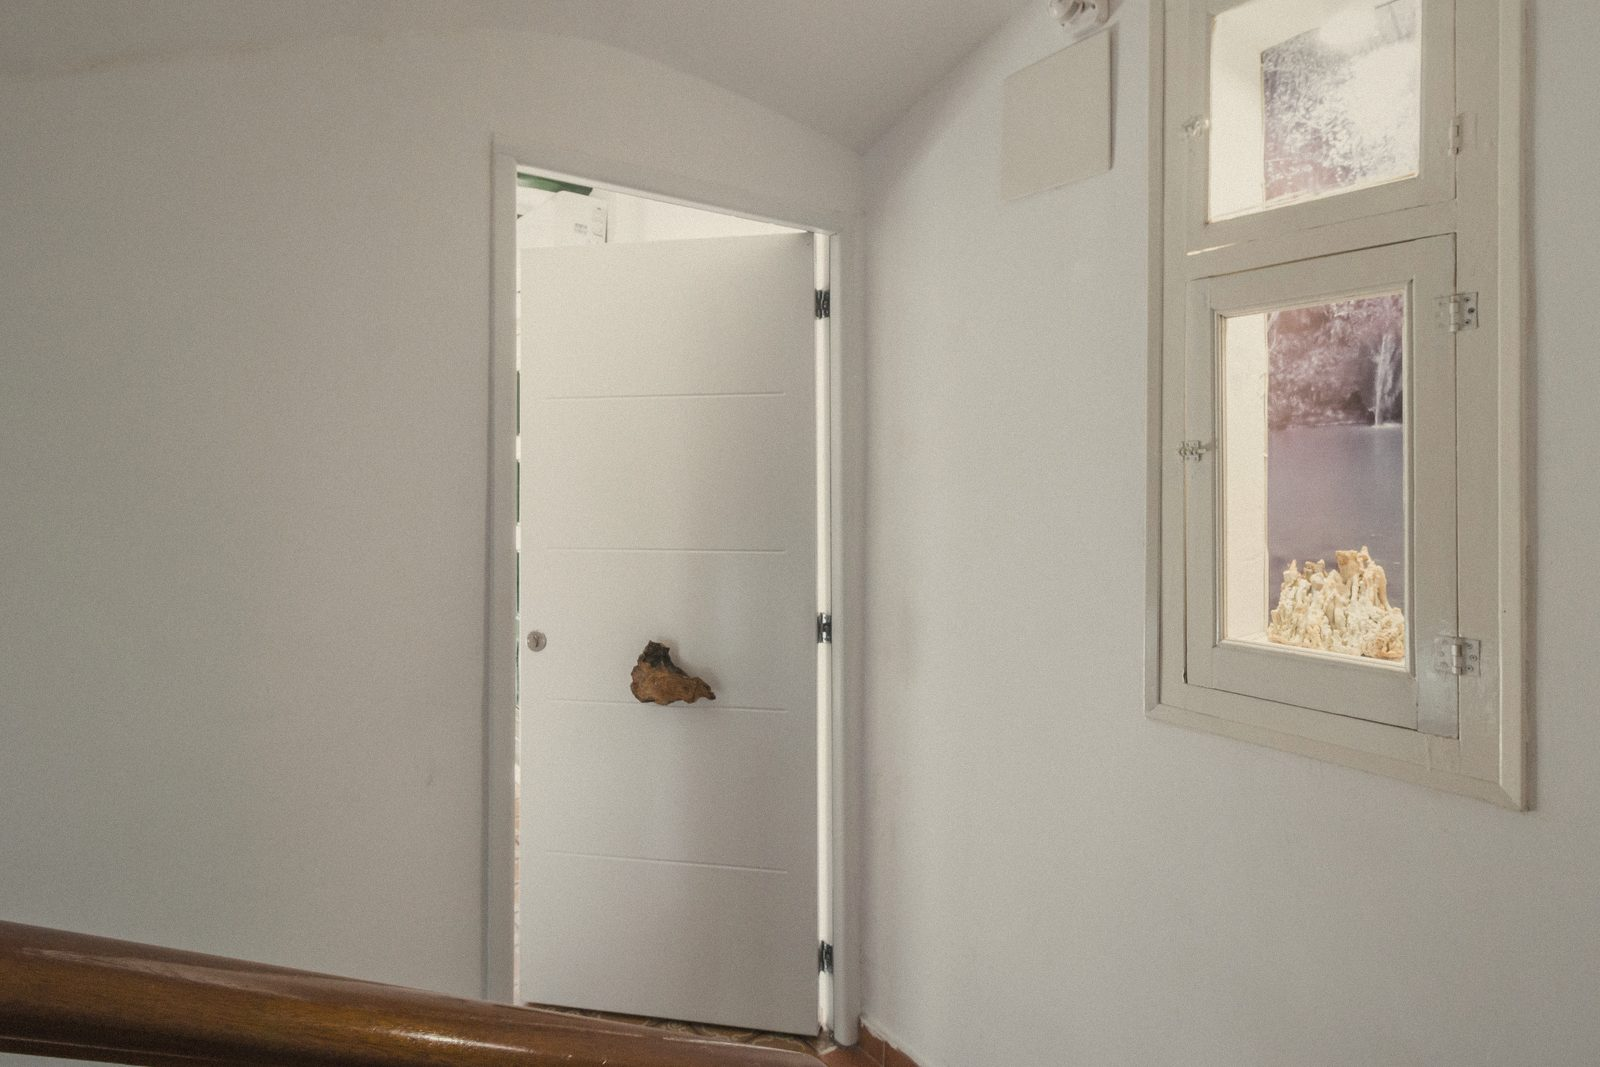
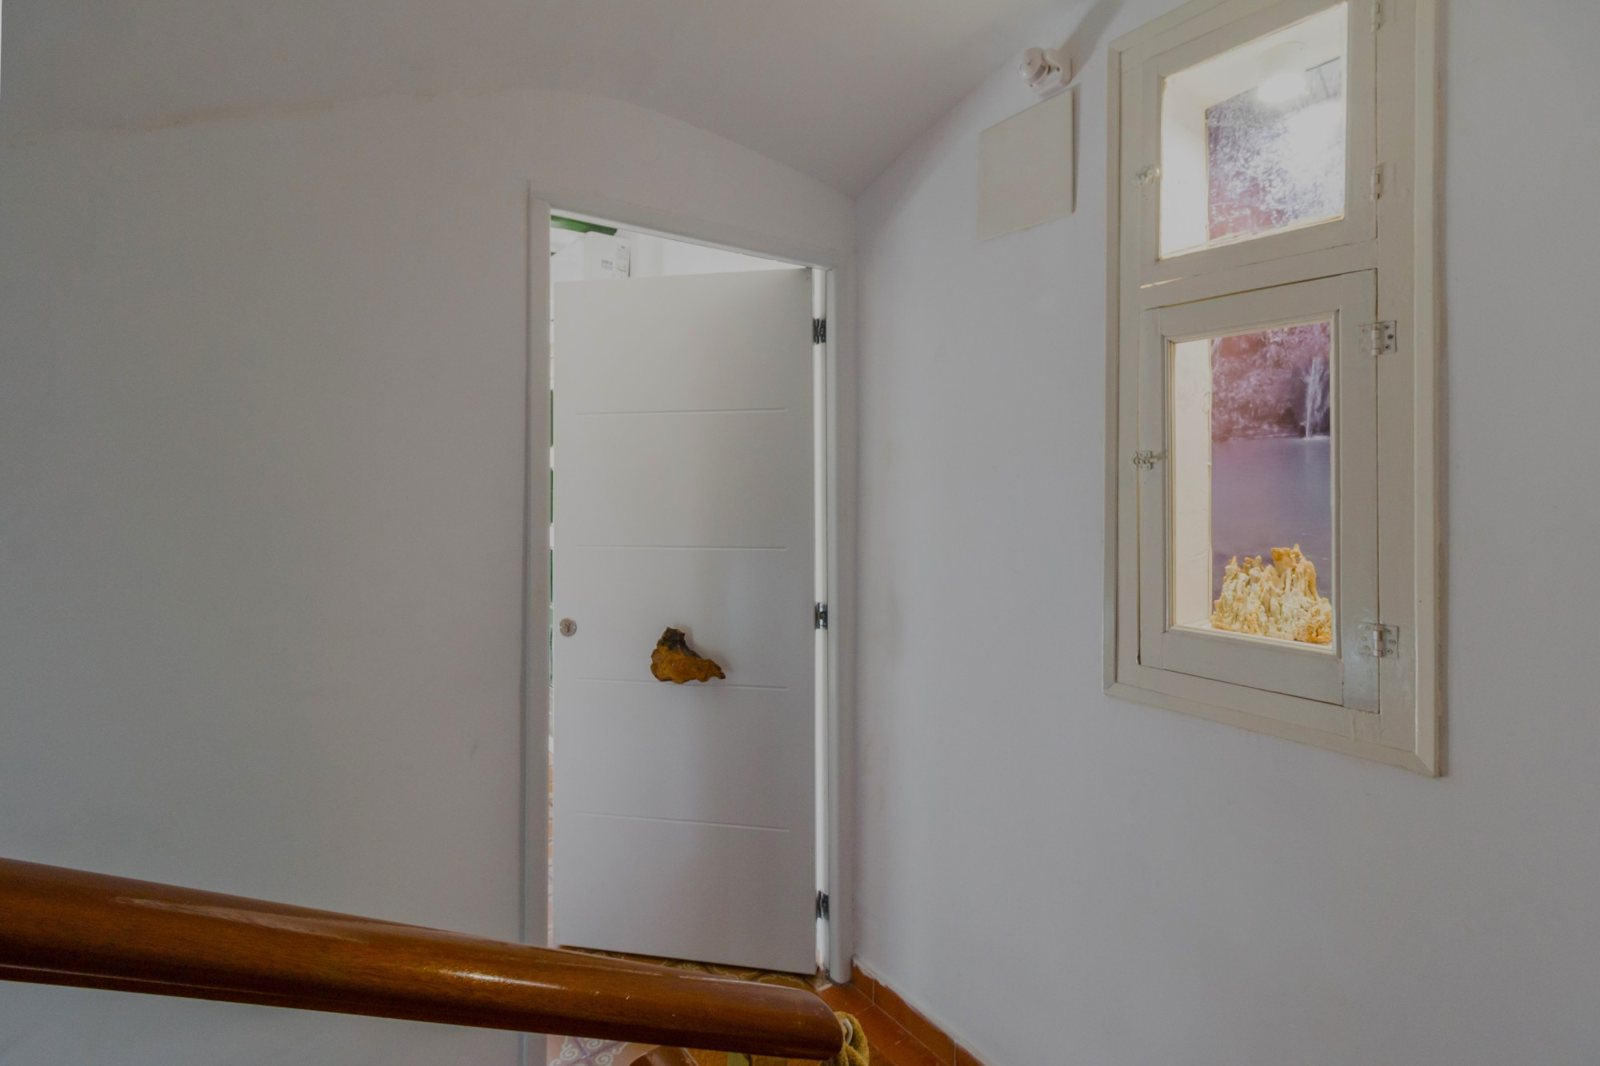
Add more owner-edited photos and fix lightbox start index
Claude-Session: https://claude.ai/code/session_018oXTw1pRYaYtSRcFJqPyaA

diff --git a/hotel-website/index.html b/hotel-website/index.html
@@ -396,14 +396,14 @@ footer .wrap > div { display: flex; gap: 22px; flex-wrap: wrap; }
   <div class="wrap">
     <div class="head-row"><div><span class="label">Galeria</span><h2>La casa en imatges</h2></div></div>
     <div class="gallery" id="gallery" data-set="gal">
-      <button class="g1" data-i="0" aria-label="Ampliar foto"><div class="photo"><img src="img/hab-llit.jpg" alt="Habitació amb llit de forja" loading="lazy"></div></button>
+      <button class="g1" data-i="0" aria-label="Ampliar foto"><div class="photo"><img src="img/escala-entrada.jpg" alt="Escala de rajola i entrada de la casa" loading="lazy"></div></button>
       <button class="g2" data-i="1" aria-label="Ampliar foto"><div class="photo"><img src="img/montserrat-vinyes.jpg" alt="Vinyes amb Montserrat al fons" loading="lazy"></div></button>
       <button class="g3" data-i="2" aria-label="Ampliar foto"><div class="photo"><img src="img/rotul.jpg" alt="Rètol de fusta de La Casa Vella sobre la porta" loading="lazy"></div></button>
-      <button class="g4" data-i="3" aria-label="Ampliar foto"><div class="photo"><img src="img/hab-llum.jpg" alt="Llum fet amb una ampolla de cava" loading="lazy"></div></button>
+      <button class="g4" data-i="3" aria-label="Ampliar foto"><div class="photo"><img src="img/llibre.jpg" alt="Llibre de La Casa Vella sobre una màquina de cosir antiga" loading="lazy"></div></button>
       <button class="g5" data-i="4" aria-label="Ampliar foto"><div class="photo"><img src="img/gerro.jpg" alt="Gerro amb flors seques al costat de la finestra" loading="lazy"></div></button>
       <button class="g6" data-i="5" aria-label="Ampliar foto"><div class="photo"><img src="img/mirall.jpg" alt="Mirall antic de marc daurat" loading="lazy"></div></button>
       <button class="g7" data-i="6" aria-label="Ampliar foto"><div class="photo"><img src="img/rebedor.jpg" alt="Rebedor amb terra de toves i porta al carrer" loading="lazy"></div></button>
-      <button class="g8" data-i="7" aria-label="Ampliar foto"><div class="photo"><img src="img/hab-tovalloles.jpg" alt="Tovalloles sobre el llit de forja" loading="lazy"></div></button>
+      <button class="g8" data-i="7" aria-label="Ampliar foto"><div class="photo"><img src="img/rajola-flor.jpg" alt="Flor sobre el terra hidràulic" loading="lazy"></div></button>
     </div>
   </div>
 </section>
@@ -486,7 +486,7 @@ document.querySelectorAll('[data-copy]').forEach(b => b.addEventListener('click'
 }));
 
 // Lightbox: each photo group opens its full set
-const ALL = ['rebedor', 'rotul', 'gerro', 'mirall', 'hab-balco', 'apt-sala-2', 'hab-llum', 'apt-cuina', 'hab-llit', 'apt-dormitori-3', 'hab-armari', 'apt-bany', 'hab-escriptori', 'apt-sala',
+const ALL = ['escala-entrada', 'rebedor', 'rotul', 'llibre', 'gerro', 'mirall', 'tirador', 'rajola', 'rajola-flor', 'hab-balco', 'apt-sala-2', 'hab-llum', 'apt-cuina', 'hab-llit', 'apt-dormitori-3', 'hab-armari', 'apt-bany', 'hab-escriptori', 'apt-sala',
   'apt-cuina-detall', 'hab-bany', 'apt-dormitori-2', 'apt-passadis', 'hab-tovalloles', 'apt-dormitori-4', 'apt-detall-rosa', 'apt-dormitori-1', 'apt-tovalloles', 'escala'];
 const SETS = { all: ALL.map(n => [n, 'La Casa Vella']) };
 SETS.gal = [...document.querySelectorAll('#gallery img')].map(i => [i.getAttribute('src').slice(4, -4), i.alt]);
@@ -498,7 +498,8 @@ function show(i) {
   lbCount.textContent = `${cur + 1} / ${set.length}`;
 }
 document.querySelectorAll('[data-set]').forEach(group => group.querySelectorAll('button').forEach(b => b.addEventListener('click', () => {
-  set = SETS[group.dataset.set]; opener = b; show(+b.dataset.i); lb.hidden = false; document.getElementById('lbClose').focus();
+  set = SETS[group.dataset.set]; opener = b;
+  const n = b.querySelector('img').getAttribute('src').slice(4, -4), i = set.findIndex(x => x[0] === n); show(i < 0 ? 0 : i); lb.hidden = false; document.getElementById('lbClose').focus();
 })));
 document.getElementById('allPhotos').addEventListener('click', e => {
   set = SETS.all; opener = e.currentTarget; show(0); lb.hidden = false; document.getElementById('lbClose').focus();
